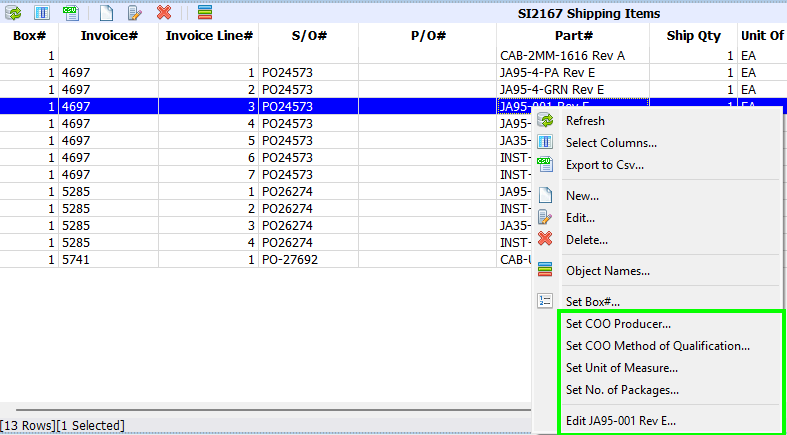
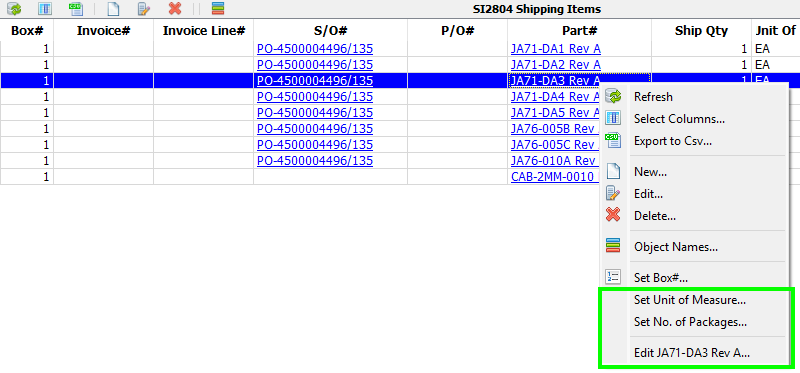
Updates for v33.5.1 Release.

diff --git a/docs/managers/shipping/shipping-mgr.md b/docs/managers/shipping/shipping-mgr.md
@@ -28,6 +28,14 @@ Opens a form where you can edit the pertinent Shipping Record data for a Certifi
 Certificate of Origin
 ///
 
+!!! note
+
+    Certificate Of Origin and Commercial Invoice pdfs are saved in the record's J:/Shipping Documents/SIxxxx Work Directory.  
+    You will want to create the SIxxxx folder before generating the pdfs by clicking on the folder link and selecting Yes.
+
+    ![alt text](image-5.png) ![alt text](image-9.png)
+
+
 ## Setting Shipping Item Data
 
 The context menu enables you to quickly set values for multiple shipping item records.  
@@ -37,7 +45,7 @@ The context menu enables you to quickly set values for multiple shipping item re
 Shipping Items Context Menu
 ///
 
-You can also open the item's Part# editor from this menu to set the Part's Shipping Information.
+You can also open the item's Part# editor from this menu to set a Part's Shipping Information.
 
 ![alt text](image-3.png)
 /// caption
@@ -48,3 +56,26 @@ Product Shipping Info
 /// caption
 Part PPL#1 Shipping Info
 ///
+
+## Shipping Labels
+
+Shipping Labels can be printed from the following locations:
+
+1. Work Orders Manager  
+  ![alt text](image-6.png)
+
+2. Parts Manager - PPL - Batch or Work Orders tab.
+
+3. Receive Inspections Manager  
+  ![alt text](image-7.png)
+
+### Shipping Label Dialog
+
+The Unit of Measure and the Made In Country fields are extracted from the associated Part Number's PPL#1.  
+Press the Edit button to change.
+
+![alt text](image-8.png)
+
+!!! note
+
+    The footer text can be overriden, however it is not saved after printing the label.

diff --git a/docs/managers/preqs/preqs-mgr.md b/docs/managers/preqs/preqs-mgr.md
@@ -1,0 +1,24 @@
+---
+title: Purchase Requisitions Manager
+---
+
+# Purchase Requisitions Manager
+
+This page contains notes about the more obscure features of the Preqs Manager.  
+
+## Editing Line Items
+
+### Why isn't the Part selected in the form?
+
+Even though a part has been selected for the line item, it shows up as a Free Hand Line Item when the form is opened.
+
+This is caused when the Part's Manufacturer and the Purchase Req's Vendor are not the same.
+
+Quite possibly, the Part's Manufacturer was changed after it was added to the Preq.
+
+![alt text](AppComd_bSDRlpc2jq.png)
+![](image.png)
+/// caption
+Purchase Requisition Line Item Form
+///
+

diff --git a/docs/managers/ecrs/ecrs-mgr.md b/docs/managers/ecrs/ecrs-mgr.md
@@ -8,9 +8,16 @@ This page contains notes about the more obscure features of the Ecrs Manager.
 
 ## Editing Ecrs
 
+### Notification List
+
+**New in v33.5.1**
+
+- The list of Document Types that can be assigned to a Department are defined in *AppCOM Settings - Ecrs - Ecr Notification Departments*.
+- For notification purposes, a user can be assigned to more than one department in *AppCOM Settings - Authorization - Department Members*.
+
 ### Project
 
-**Introduced in v33.2.1**
+**New in v33.2.1**
 
 When the Project is changed, the Project Phase field is updated to reflect the current disposition from the Project's corresponding Project Lifecycle record.
 
